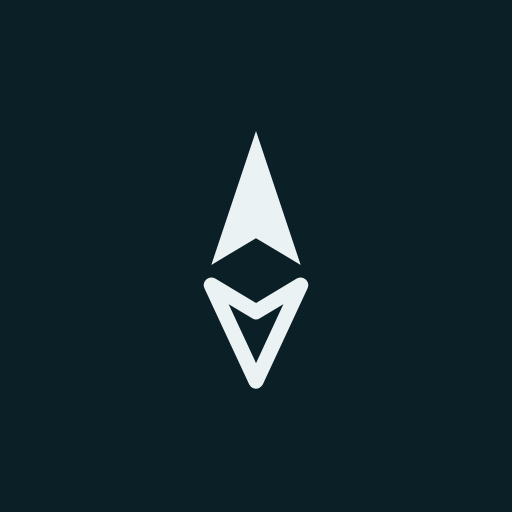
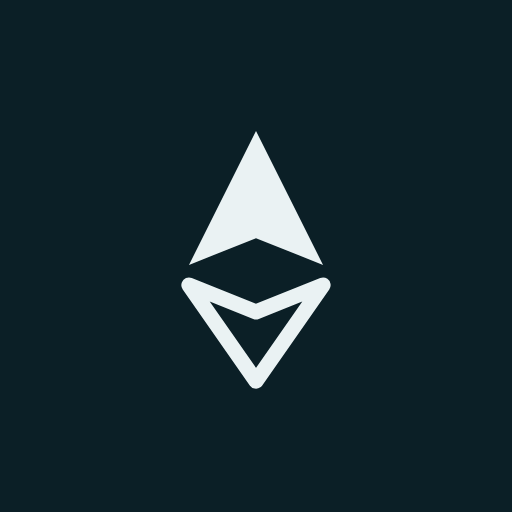
feat(brand): widen the needle to survive a browser tab (#107)
Rober picked A2 after seeing real 16px renders: the approved proportions put
only about five pixels of mark across a favicon, which reads as a smudge in a
tab. Shoulders move from 20 to 28 viewBox units. Same silhouette, same pivot
gap, same solid-north idea. Proportion only.

Assets regenerated from the SVG; the drift test keeps brand.tsx and
favicon.svg on the same geometry.

Claude-Session: https://claude.ai/code/session_01KA2HSwA2b8EMcH61nUL6cL

Changed region(s): [[0.3438, 0.25, 0.6562, 0.75]]

diff --git a/src/lib/brand.tsx b/src/lib/brand.tsx
@@ -19,10 +19,10 @@
 export const MARK_VIEWBOX = "0 0 64 64";
 
 /** North half: solid. The answered direction. */
-export const MARK_NORTH = "M32 4 L42 34 L32 28 L22 34 Z";
+export const MARK_NORTH = "M32 4 L47 34 L32 28 L17 34 Z";
 
 /** South half: outline. The direction still open. */
-export const MARK_SOUTH = "M32 60 L42 38.5 L32 44.5 L22 38.5 Z";
+export const MARK_SOUTH = "M32 60 L47 38.5 L32 44.5 L17 38.5 Z";
 
 /** Outline weight of the south half, in viewBox units. */
 export const MARK_SOUTH_STROKE = 3.4;
